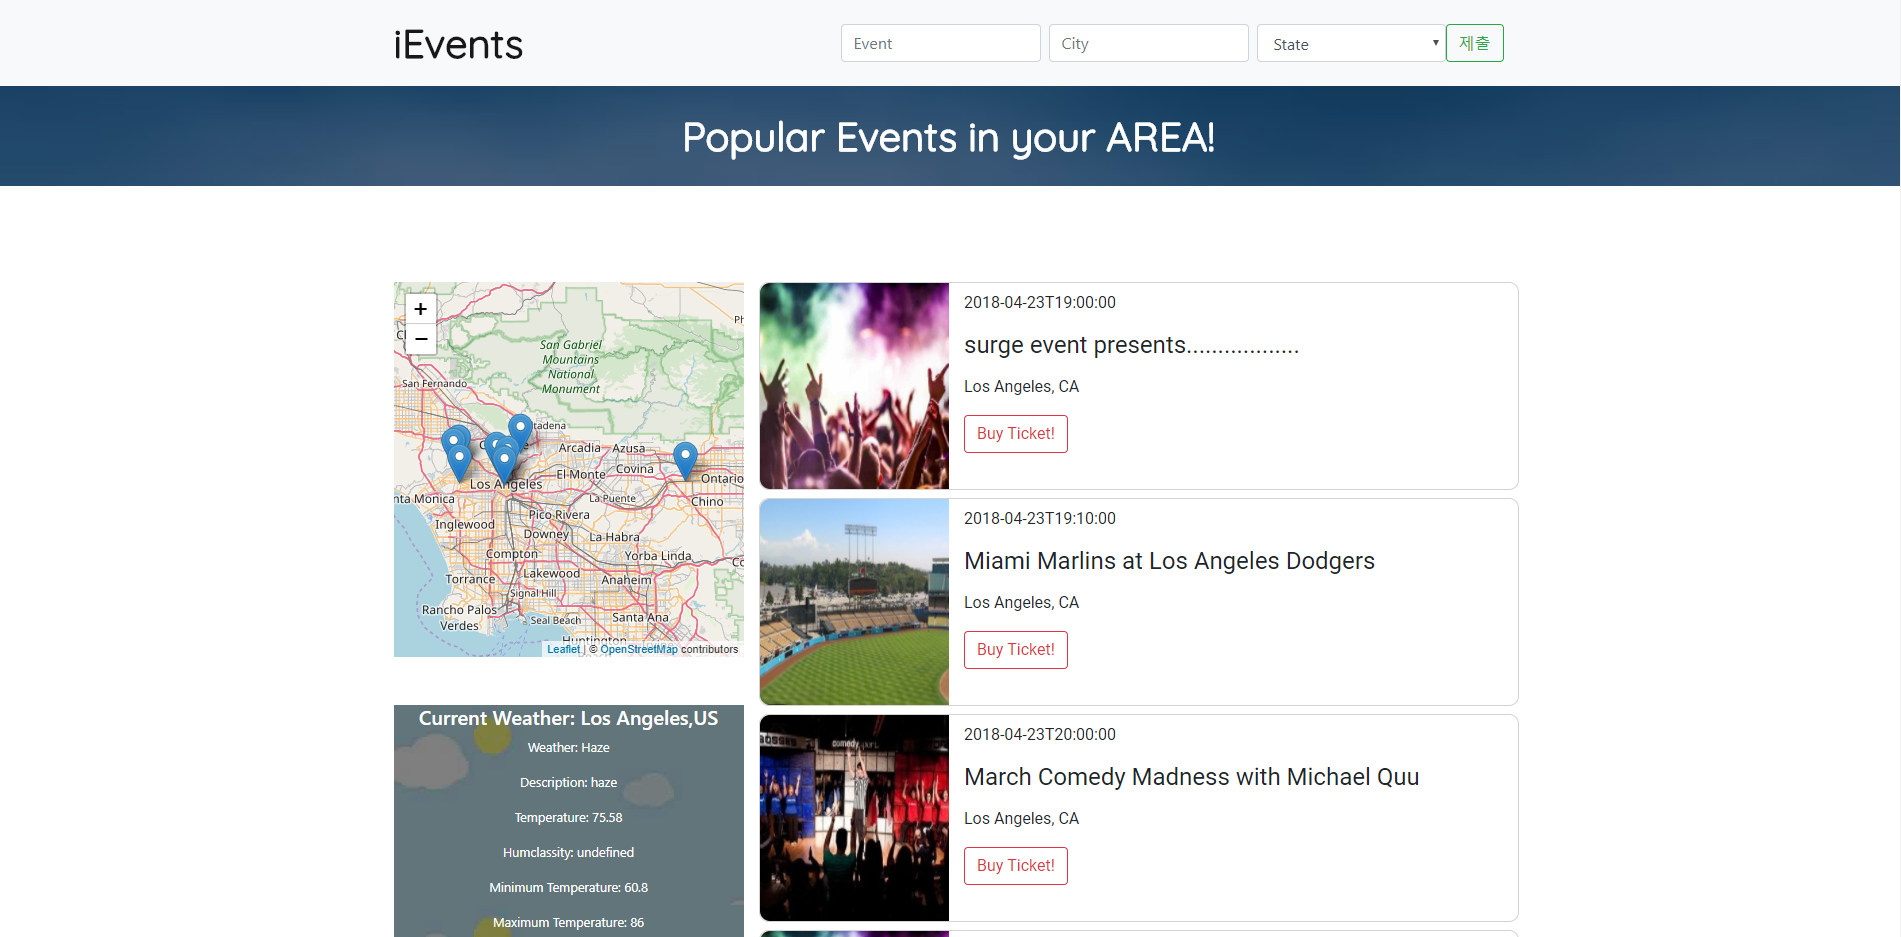
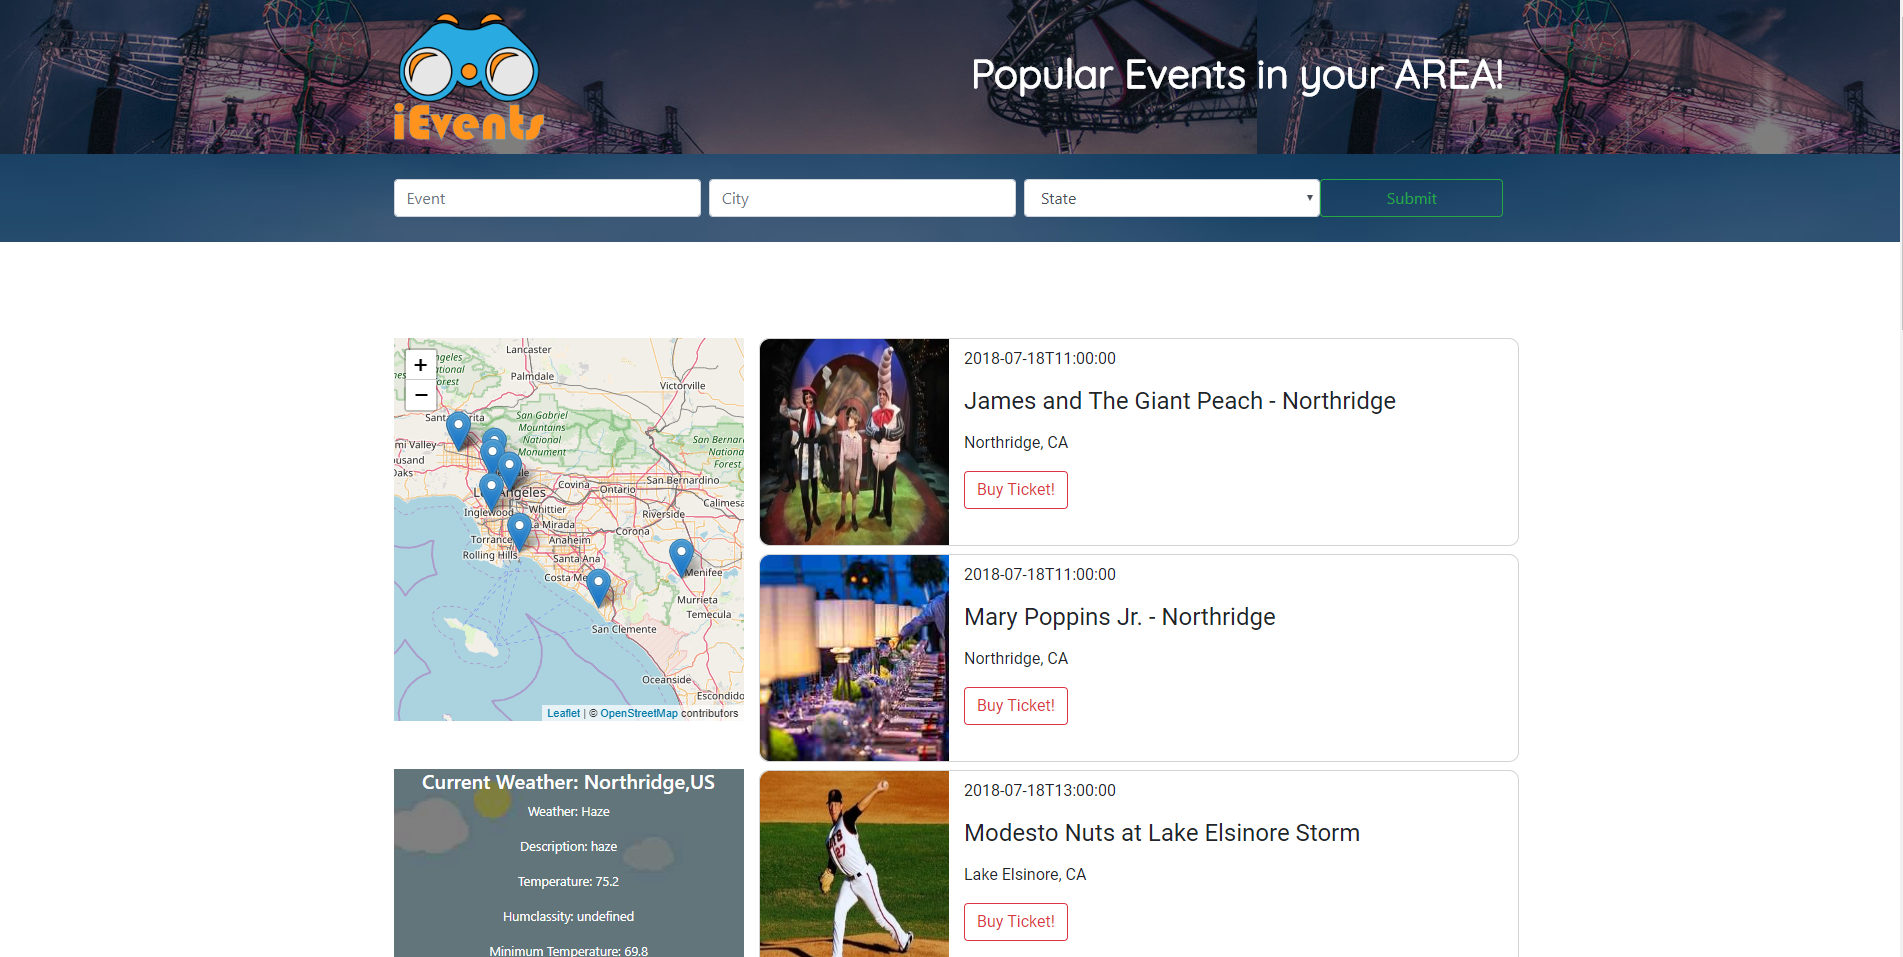
portfolio updating WIP 2/8

diff --git a/src/Components/Homepage/Portfolio/Portfolio.jsx b/src/Components/Homepage/Portfolio/Portfolio.jsx
@@ -9,8 +9,9 @@ import {
     Header
 } from 'semantic-ui-react';
 import Port1 from './Images/mooch-home.png';
-import Port2 from './Images/iEventshp1.png';
-import Port3 from './Images/triviaGame.png';
+import Port5 from './Images/3PuttStartPage.png';
+import Port2 from './Images/iEvents.png';
+import Port3 from './Images/simpsonsClicky.png';
 import Port4 from './Images/TechCheck.png';
 import './Portfolio.css';
 import {
@@ -62,22 +63,23 @@ class portfolio extends Component {
                                             <Grid >
                                                 <Grid.Row >
                                                     <Grid.Column width={4}>
-                                                        <Image
-                                                            src={react}
-                                                            style={{
-                                                            height: '31px',
-                                                            width: '28px',
-                                                            margin: '0 auto'
-                                                        }}/>
+                                                        <FontAwesomeIcon icon={react} size="2x" color='#00d8ff'/>
+
                                                     </Grid.Column>
                                                     <Grid.Column width={4}>
-                                                        <FontAwesomeIcon icon={html5} size="2x" color='darkOrange'/>
+                                                        <FontAwesomeIcon icon={nodeJs} size="2x" color='green'/>
                                                     </Grid.Column>
                                                     <Grid.Column width={4}>
                                                         <FontAwesomeIcon icon={javascript} size="2x" color='yellow'/>
                                                     </Grid.Column>
                                                     <Grid.Column width={4}>
-                                                        <FontAwesomeIcon icon={css3} size="2x" color='#0D4F8B'/>
+                                                        <Image
+                                                            src={materialUi}
+                                                            style={{
+                                                            height: '31px',
+                                                            width: '28px',
+                                                            margin: '0 auto'
+                                                        }}/>
                                                     </Grid.Column>
                                                 </Grid.Row>
                                             </Grid>
@@ -151,7 +153,7 @@ class portfolio extends Component {
                                             <Grid column={2}>
                                                 <Grid.Column width={8}>
                                                     <a
-                                                        href='https://github.com/danniboi82/burger'
+                                                        href='https://github.com/danniboi82/iEvent-finder'
                                                         target="_blank"
                                                         rel="noopener noreferrer"
                                                         className='portIcons'>
@@ -161,7 +163,7 @@ class portfolio extends Component {
                                                 </Grid.Column>
                                                 <Grid.Column width={8}>
                                                     <a
-                                                        href='https://danoh82-burgerbuilder.herokuapp.com/'
+                                                        href='https://danoh82-ievent.herokuapp.com/'
                                                         target="_blank"
                                                         rel="noopener noreferrer"
                                                         className='portIcons'>
@@ -179,7 +181,7 @@ class portfolio extends Component {
                                     <div
                                         className="PortContainer"
                                         style={{
-                                        backgroundImage: `url(${Port1})`
+                                        backgroundImage: `url(${Port5})`
                                     }}>
                                         <div className="textOverImage">
                                             <h3 className="title">3Putt Maestro</h3>
